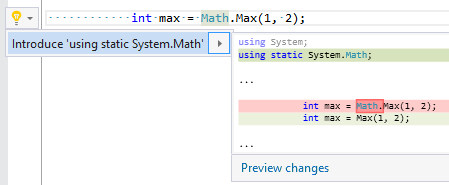
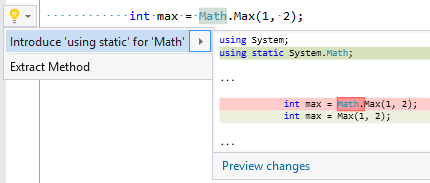
change refactoring "IntroduceUsingStaticDirective": refactoring is available only when class name is selected

diff --git a/source/Pihrtsoft.CodeAnalysis.CSharp.Refactorings/Refactoring/IntroduceUsingStaticDirectiveRefactoring.cs b/source/Pihrtsoft.CodeAnalysis.CSharp.Refactorings/Refactoring/IntroduceUsingStaticDirectiveRefactoring.cs
@@ -5,7 +5,6 @@ using System.Threading.Tasks;
 using Microsoft.CodeAnalysis;
 using Microsoft.CodeAnalysis.CSharp;
 using Microsoft.CodeAnalysis.CSharp.Syntax;
-using Pihrtsoft.CodeAnalysis;
 
 namespace Pihrtsoft.CodeAnalysis.CSharp.Refactoring
 {
@@ -20,31 +19,27 @@ namespace Pihrtsoft.CodeAnalysis.CSharp.Refactoring
             {
                 memberAccess = GetTopmostMemberAccessExpression(memberAccess);
 
-                if (memberAccess.Expression.Span.Contains(context.Span))
+                if (memberAccess.Expression.Span.Equals(context.Span))
                 {
                     SemanticModel semanticModel = await context.GetSemanticModelAsync();
 
-                    ISymbol symbol = semanticModel.GetSymbolInfo(memberAccess.Expression, context.CancellationToken).Symbol;
+                    var typeSymbol = semanticModel
+                        .GetSymbolInfo(memberAccess.Expression, context.CancellationToken)
+                        .Symbol as INamedTypeSymbol;
 
-                    if (symbol?.IsNamedType() == true)
+                    if (typeSymbol.IsStaticClass()
+                        && (typeSymbol.IsPublic() || typeSymbol.IsInternal())
+                        && !SyntaxUtility.IsUsingStaticInScope(memberAccess, typeSymbol, semanticModel, context.CancellationToken))
                     {
-                        var namedTypeSymbol = (INamedTypeSymbol)symbol;
-
-                        if (namedTypeSymbol.TypeKind == TypeKind.Class
-                            && namedTypeSymbol.IsStatic
-                            && (namedTypeSymbol.IsPublic() || namedTypeSymbol.IsInternal())
-                            && !SyntaxUtility.IsUsingStaticInScope(memberAccess, namedTypeSymbol, semanticModel, context.CancellationToken))
-                        {
-                            context.RegisterRefactoring($"Introduce 'using static {namedTypeSymbol.ToDisplayString()}'",
-                                cancellationToken =>
-                                {
-                                    return RefactorAsync(
-                                        context.Document,
-                                        namedTypeSymbol.ToString(),
-                                        memberAccess,
-                                        cancellationToken);
-                                });
-                        }
+                        context.RegisterRefactoring($"Introduce 'using static' for '{typeSymbol.ToDisplayString(TypeSyntaxRefactoring.SymbolDisplayFormat)}'",
+                            cancellationToken =>
+                            {
+                                return RefactorAsync(
+                                    context.Document,
+                                    typeSymbol.ToString(),
+                                    memberAccess,
+                                    cancellationToken);
+                            });
                     }
                 }
             }

diff --git a/source/Pihrtsoft.CodeAnalysis.CSharp.Refactorings/Refactoring/SimpleMemberAccessExpressionRefactoring.cs b/source/Pihrtsoft.CodeAnalysis.CSharp.Refactorings/Refactoring/SimpleMemberAccessExpressionRefactoring.cs
@@ -12,9 +12,9 @@ namespace Pihrtsoft.CodeAnalysis.CSharp.Refactoring
         {
             await ReplaceCountWithLengthOrLengthWithCountRefactoring.ComputeRefactoringsAsync(context, memberAccess);
 
-            FormatExpressionChainRefactoring.ComputeRefactorings(context, memberAccess);
-
             await IntroduceUsingStaticDirectiveRefactoring.ComputeRefactoringsAsync(context, memberAccess);
+
+            FormatExpressionChainRefactoring.ComputeRefactorings(context, memberAccess);
 
             if (context.Settings.IsRefactoringEnabled(RefactoringIdentifiers.ReplaceStringEmptyWithEmptyStringLiteral)
                 && context.SupportsSemanticModel)

diff --git a/source/Pihrtsoft.CodeAnalysis.VisualStudio.Common/RefactoringsOptionsPage.Generated.cs b/source/Pihrtsoft.CodeAnalysis.VisualStudio.Common/RefactoringsOptionsPage.Generated.cs
@@ -588,7 +588,7 @@ namespace Pihrtsoft.CodeAnalysis.VisualStudio
 
         [Category(RefactoringCategory)]
         [DisplayName("Introduce using static directive")]
-        [Description("Syntax: member access expression (public or internal static class)")]
+        [Description("Syntax: member access expression (public or internal static class)\r\nScope: selected class name")]
         [TypeConverter(typeof (EnabledDisabledConverter))]
         public bool IntroduceUsingStaticDirective
         {
